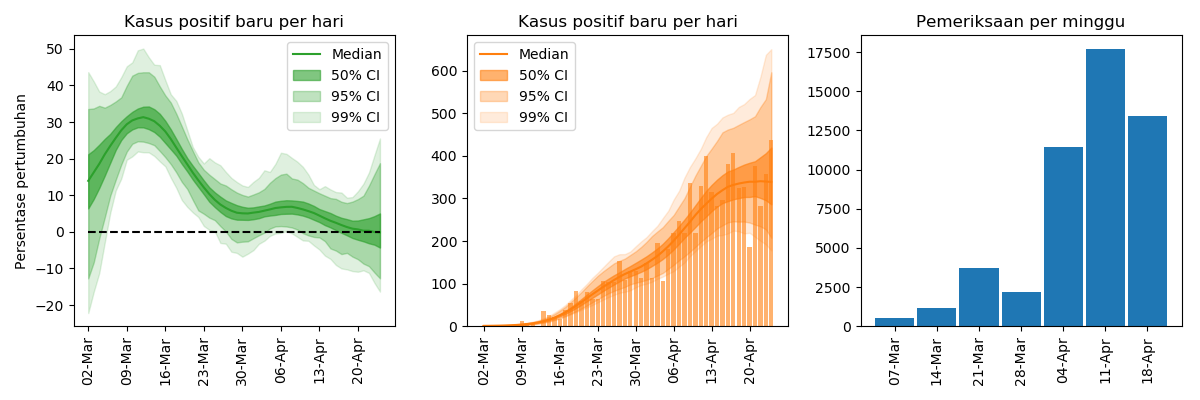
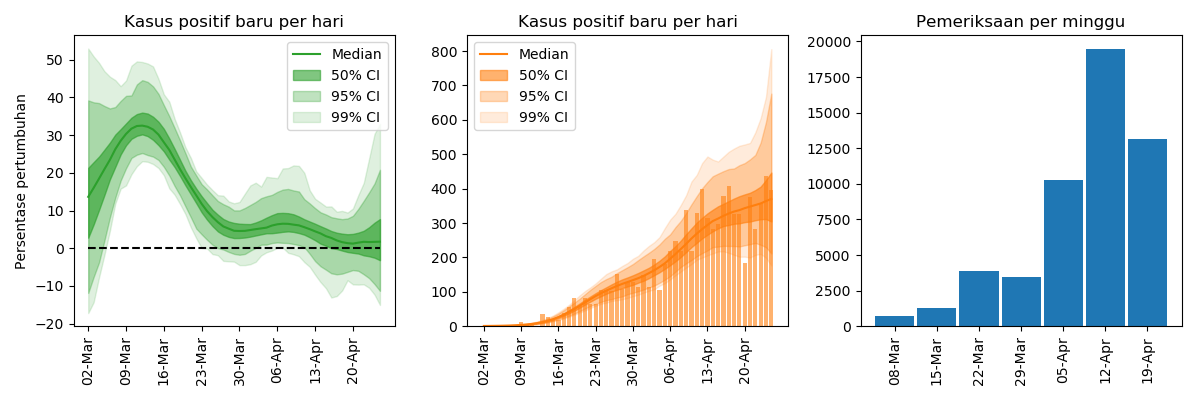
Update idcovid19

diff --git a/idcovid19.md b/idcovid19.md
@@ -8,47 +8,47 @@ permalink: /idcovid19/
 ## Apakah kurva penyebaran telah turun?
 
 Sumber data: [KawalCOVID19](https://kawalcovid19.id/)<br/>
-Diperbarui pada: 24/04/2020<br/>
+Diperbarui pada: 26/04/2020<br/>
 Metode dapat dilihat di [sini]({{ site.baseurl }}/2020/04/17/COVID19-has-the-curve-flatten/)
 
 #### Indonesia
 
-Probabilitas menurun: \\(27\%\\)<br/>
-Hasil: kurva terlihat turun, tapi jumlah tes juga menurun
+Probabilitas menurun: \\(16\%\\)<br/>
+Hasil: belum dapat disimpulkan
 
 <img title="Indonesia" src="{{ site.baseurl }}/assets/idcovid19-daily/id_new_cases.png" width="100%"/>
 
 #### Jakarta
 
-Probabilitas menurun: \\(19\%\\)<br/>
+Probabilitas menurun: \\(36\%\\)<br/>
 Hasil: kurva terlihat turun, tapi jumlah tes juga menurun
 
 <img title="Jakarta" src="{{ site.baseurl }}/assets/idcovid19-daily/idprov_jakarta_new_cases.png" width="100%"/>
 
 #### Jabar
 
-Probabilitas menurun: \\(24\%\\)<br/>
+Probabilitas menurun: \\(15\%\\)<br/>
 Hasil: belum dapat disimpulkan
 
 <img title="Jabar" src="{{ site.baseurl }}/assets/idcovid19-daily/idprov_jabar_new_cases.png" width="100%"/>
 
 #### Jatim
 
-Probabilitas menurun: \\(13\%\\)<br/>
+Probabilitas menurun: \\(15\%\\)<br/>
 Hasil: belum dapat disimpulkan
 
 <img title="Jatim" src="{{ site.baseurl }}/assets/idcovid19-daily/idprov_jatim_new_cases.png" width="100%"/>
 
 #### Jateng
 
-Probabilitas menurun: \\(16\%\\)<br/>
+Probabilitas menurun: \\(10\%\\)<br/>
 Hasil: belum dapat disimpulkan
 
 <img title="Jateng" src="{{ site.baseurl }}/assets/idcovid19-daily/idprov_jateng_new_cases.png" width="100%"/>
 
 #### Sulsel
 
-Probabilitas menurun: \\(10\%\\)<br/>
-Hasil: belum dapat disimpulkan
+Probabilitas menurun: \\(25\%\\)<br/>
+Hasil: kurva terlihat turun, tapi jumlah tes juga menurun
 
 <img title="Sulsel" src="{{ site.baseurl }}/assets/idcovid19-daily/idprov_sulsel_new_cases.png" width="100%"/>
